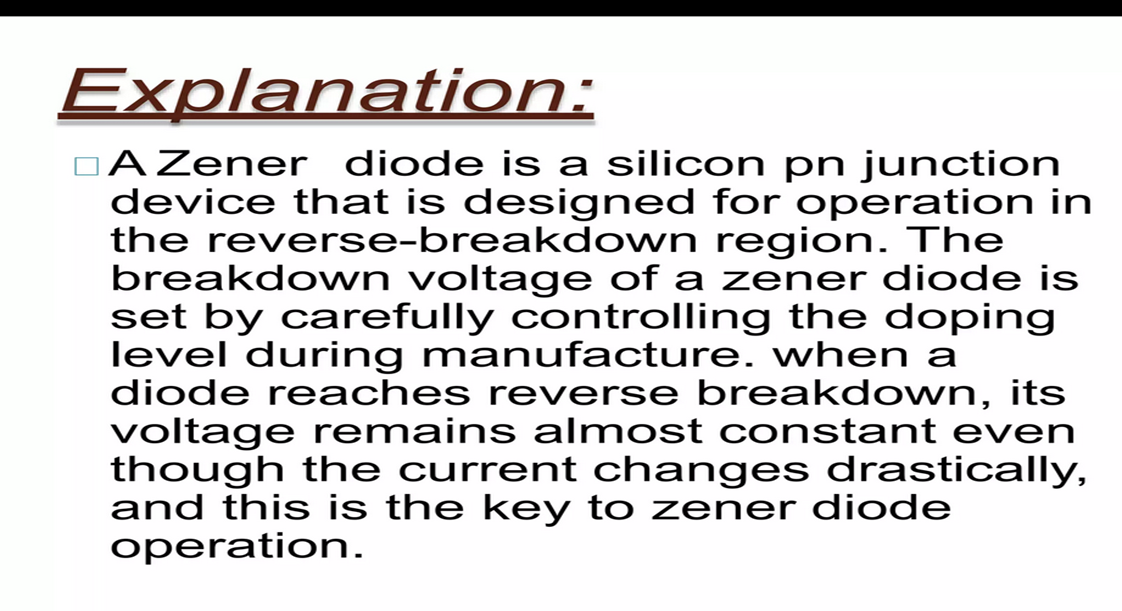
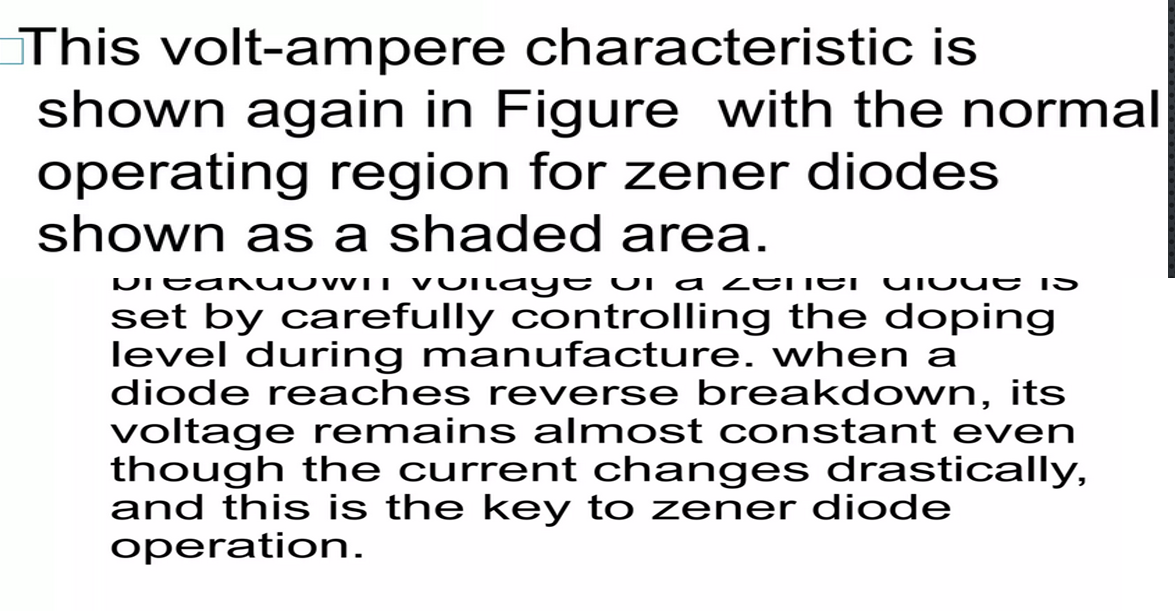
added zenner and styles

Changed region(s): [[0.0, 0.0, 1.0, 0.9329]]

diff --git a/index.html b/index.html
@@ -3,14 +3,15 @@
 
 <head>
     <meta charset="UTF-8">
-    <title>Bootstrap Navbar Example</title>
-    <link rel="stylesheet" href="https://maxcdn.bootstrapcdn.com/bootstrap/3.3.7/css/bootstrap.min.css">
+    <title>Electronicts - Types of Diode</title>
+    <link rel="stylesheet" href="https://cdn.jsdelivr.net/npm/bootstrap@5.2.3/dist/css/bootstrap.min.css"
+        integrity="sha384-rbsA2VBKQhggwzxH7pPCaAqO46MgnOM80zW1RWuH61DGLwZJEdK2Kadq2F9CUG65" crossorigin="anonymous">
     <link rel="stylesheet" href="styles.css">
 </head>
 
 <body>
     <!-- Bootstrap Navbar -->
-    <nav class="navbar navbar-default">
+    <nav class="navbar navbar-expand-lg navbar-light bg-light">
         <div class="container-fluid">
             <div class="navbar-header">
                 <a class="navbar-brand" href="/" style="color:black;">Electronicts - Types of Diode</a>
@@ -20,17 +21,20 @@
 
     <!-- Carousel Section -->
     <section id="carousel">
-        <div id="myCarousel" class="carousel slide">
+        <div id="carouselExampleIndicators" class="carousel slide">
             <!-- Indicators -->
-            <ol class="carousel-indicators">
-                <li data-target="#myCarousel" data-slide-to="0" class="active"></li>
-                <li data-target="#myCarousel" data-slide-to="1"></li>
-                <li data-target="#myCarousel" data-slide-to="2"></li>
-            </ol>
+            <div class="carousel-indicators">
+                <button type="button" data-bs-target="#carouselExampleIndicators" data-bs-slide-to="0" class="active"
+                    aria-current="true" aria-label="Slide 1"></button>
+                <button type="button" data-bs-target="#carouselExampleIndicators" data-bs-slide-to="1"
+                    aria-label="Slide 2"></button>
+                <button type="button" data-bs-target="#carouselExampleIndicators" data-bs-slide-to="2"
+                    aria-label="Slide 3"></button>
+            </div>
 
             <!-- Wrapper for slides -->
             <div class="carousel-inner">
-                <div class="item">
+                <div class="carousel-item active">
                     <h1>Types of Diode</h1>
                     <p>Major types of Diode</p>
                     <ul>
@@ -45,29 +49,54 @@
                     </ul>
                 </div>
 
-                <div class="item active">
-                    <h1>Zenner Diode</h1>
-                    <p>A Zener diode is a silicon pn junction device that is designed for operation in the
-                        reverse-breakdown region. The breakdown voltage of a zener diode is set by carefully controlling
-                        the doping level during manufacture. when a diode reaches reverse breakdown, its voltage remains
-                        almost constant even though the current changes drastically, and this is the key to zener diode
-                        operation.</p>
+                <div class="carousel-item zenner">
+                    <div class="row">
+                        <div class="col-12 col-lg-8">
+                            <h1>Zenner Diode</h1>
+                            <p>A Zener diode is a silicon pn junction device that is designed for operation in the
+                                reverse-breakdown region. The breakdown voltage of a zener diode is set by carefully
+                                controlling
+                                the doping level during manufacture. when a diode reaches reverse breakdown, its voltage
+                                remains
+                                almost constant even though the current changes drastically, and this is the key to
+                                zener diode
+                                operation.</p>
+                            <h4 class="font-weight-bold"><strong>Applications</strong></h4>
+                            <ul>
+                                <li>In Voltage Regulation</li>
+                                <li>As Reference Elements</li>
+                                <li>As Surge Suppressors</li>
+                                <li>Switiching Applications</li>
+                                <li>Clipper Circuits</li>
+                            </ul>
+                            <p>
+                                The volt-ampere characteristic is shown again in Figure with the normal operating region for zener diodes shown as a shaded area.
+                            </p>
+                        </div>
+                        <div class="col-12 col-lg-4 images">
+                            <img src="/images/zenner/shape.jpg">
+                            <img src="/images/zenner/madar.jpg">
+                            <img src="/images/zenner/chara.jpg">
+                        </div>
+                    </div>
 
                 </div>
 
-                <div class="item">
+                <div class="carousel-item">
                 </div>
+                <!-- Left and right controls -->
             </div>
+            <button class="carousel-control-prev" type="button" data-bs-target="#carouselExampleIndicators"
+                data-bs-slide="prev">
+                <span class="carousel-control-prev-icon" aria-hidden="true"></span>
+                <span class="visually-hidden">Previous</span>
+            </button>
+            <button class="carousel-control-next" type="button" data-bs-target="#carouselExampleIndicators"
+                data-bs-slide="next">
+                <span class="carousel-control-next-icon" aria-hidden="true"></span>
+                <span class="visually-hidden">Next</span>
+            </button>
 
-            <!-- Left and right controls -->
-            <a class="left carousel-control" href="#myCarousel" data-slide="prev">
-                <span class="glyphicon glyphicon-chevron-left"></span>
-                <span class="sr-only">Previous</span>
-            </a>
-            <a class="right carousel-control" href="#myCarousel" data-slide="next">
-                <span class="glyphicon glyphicon-chevron-right"></span>
-                <span class="sr-only">Next</span>
-            </a>
         </div>
     </section>
 
@@ -78,8 +107,15 @@
     </div>
 
     <!-- JavaScript files -->
-    <script src="https://code.jquery.com/jquery-3.2.1.min.js"></script>
-    <script src="https://maxcdn.bootstrapcdn.com/bootstrap/3.3.7/js/bootstrap.min.js"></script>
+    <!-- jQuery -->
+    <script src="https://code.jquery.com/jquery-3.6.0.min.js"
+        integrity="sha384-/fT5vBsjKtM5nriVJSNK7w8k9gNQIbbTTEQt8E+Yn1AvcPjOVvpatPLFzL50UrmQ"
+        crossorigin="anonymous"></script>
+
+    <!-- Bootstrap JS -->
+    <script src="https://cdn.jsdelivr.net/npm/bootstrap@5.2.3/dist/js/bootstrap.min.js"
+        integrity="sha384-cuYeSxntonz0PPNlHhBs68uyIAVpIIOZZ5JqeqvYYIcEL727kskC66kF92t6Xl2V"
+        crossorigin="anonymous"></script>
     <script src="scripts.js"></script>
 </body>
 

diff --git a/styles.css b/styles.css
@@ -2,25 +2,48 @@ body{
     background: rgb(31,122,140);
     background: linear-gradient(90deg, rgba(31,122,140,0.3200630594034489) 0%, rgba(43,45,66,0.5469538157059699) 100%);
 }
-.carousel-control{
+.carousel-control-prev,.carousel-control-next{
     width:7%;
     background: transparent !important;
 }
-.carousel-control.left:hover{
+.carousel-control-prev:hover{
     background: linear-gradient(90deg, rgba(255,255,255,0.3) 0%, rgba(0,0,0,0) 100%) !important;
 }
-.carousel-control.right:hover{
+.carousel-control-next:hover{
     background: linear-gradient(270deg, rgba(255,255,255,0.3) 0%, rgba(0,0,0,0) 100%) !important;
 }
 .carousel-inner{
-    display:flex;
+    /* display:flex; */
+    /* justify-content: center; */
+    /* align-items: center; */
+}
+.carousel-inner .carousel-item{
+    /* width: 80%; */
+    min-height: 80vh;
+    /* margin: 0 auto; */
+    /* font-size: 2rem; */
+    padding: 10vh 10%;
+}
+.zenner .images{
+    display: flex;
     justify-content: center;
+    flex-direction: column;
     align-items: center;
 }
-.carousel-inner .item{
-    width: 80%;
-    min-height: 70vh;
-    font-size: 2rem;
+.zenner .images img{
+    height: auto;
+    width: 40%;
+    padding-top:10px;
+}
+@media screen and (max-width: 900px){
+    .zenner .images{
+        flex-direction: row !important;
+    }
+    .zenner .images img{
+        padding-right: 10px;
+        width: 27%;
+
+    }
 }
 .footer{
     position:absolute;
@@ -37,4 +60,9 @@ body{
 .footer>*{
     padding: 0;
     margin: 0;
+}
+@media screen and (max-width: 900px) {
+    .footer{
+        position: relative;
+    }
 }
